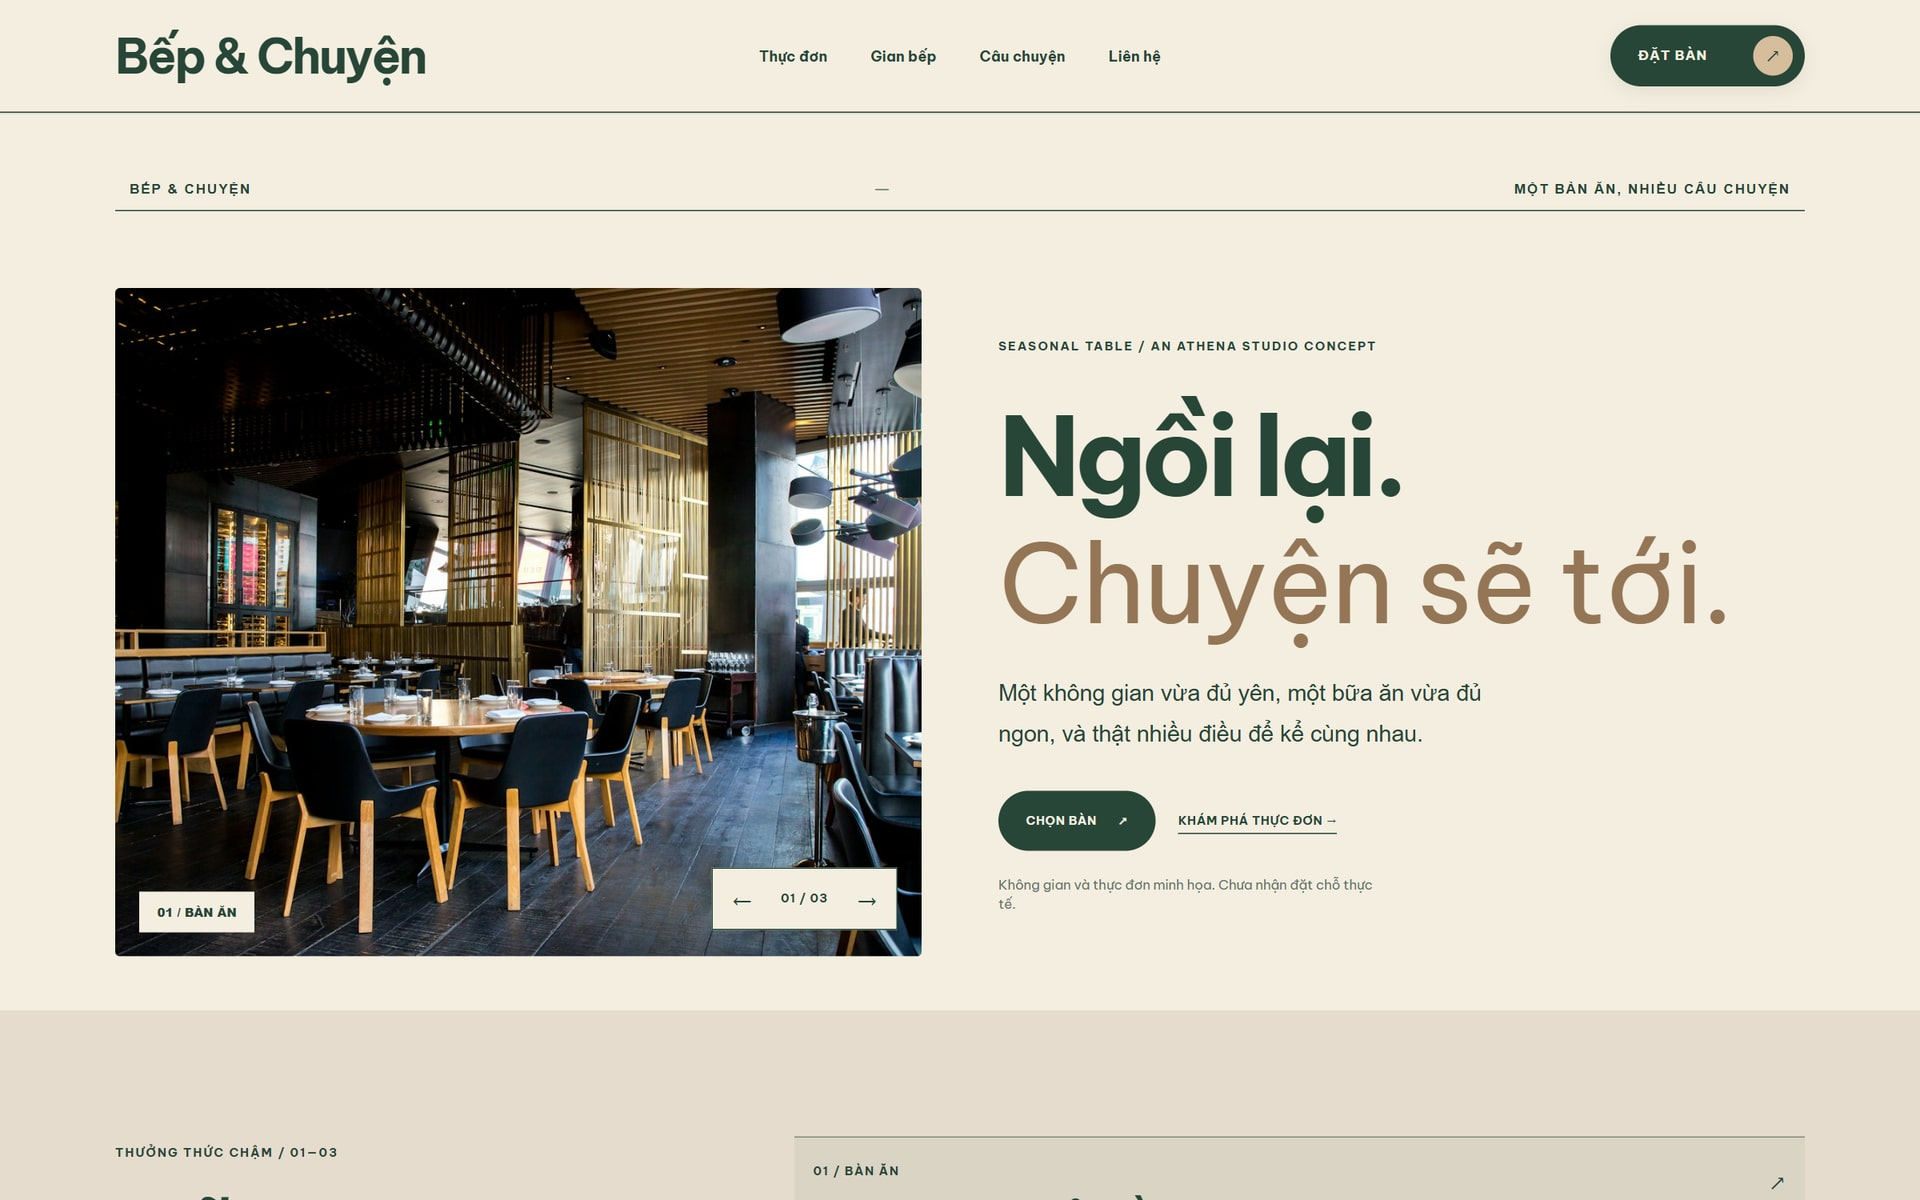
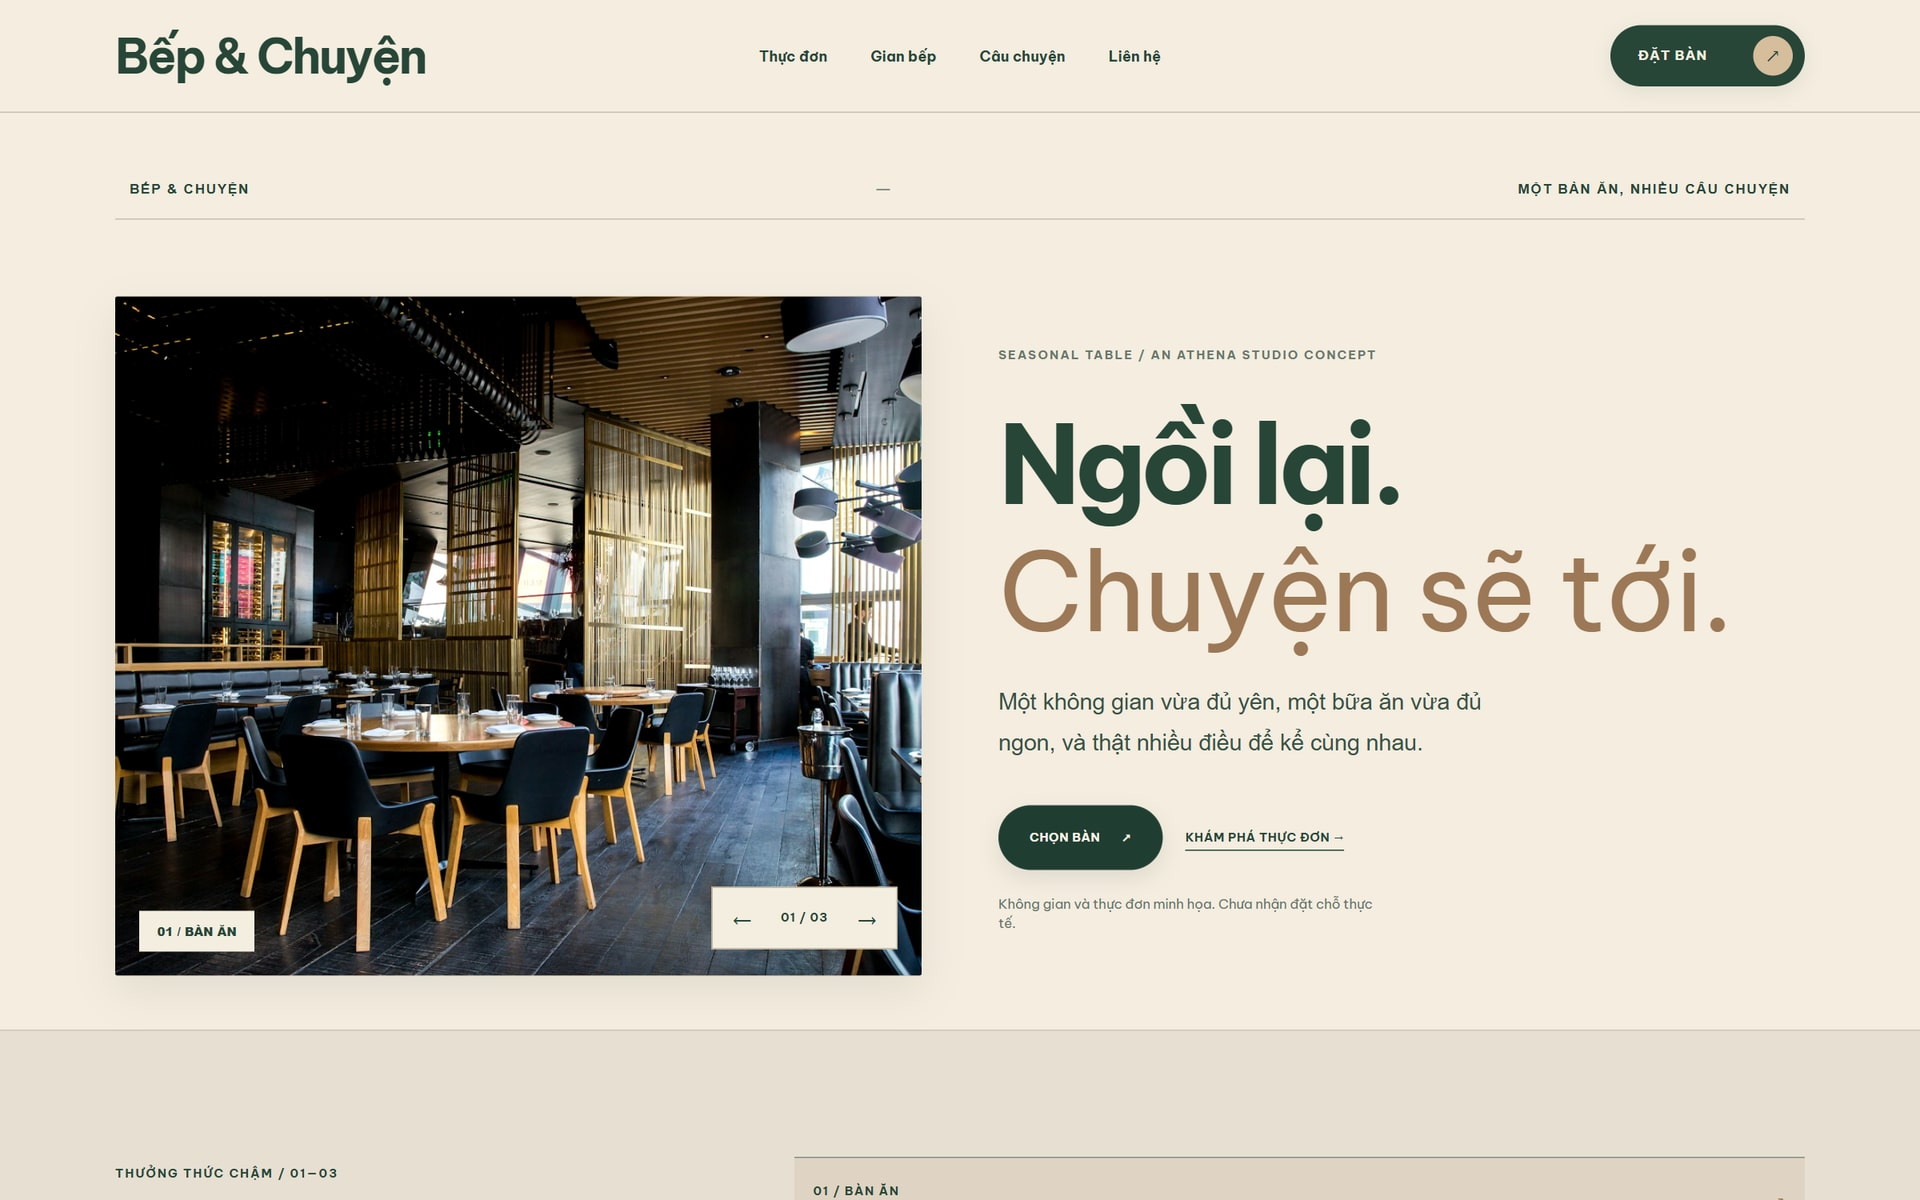
style(hospitality): elevate quiet luxury materials and editorial controls

diff --git a/templates/hospitality-booking/src/components/hospitality-sovereign.module.css b/templates/hospitality-booking/src/components/hospitality-sovereign.module.css
@@ -470,3 +470,121 @@
 .root .guestCounter legend{margin:0 0 11px;line-height:17px}
 .root .guestCounter>div{height:53px;min-height:53px;box-sizing:border-box}
 .root .guestCounter>div button{height:51px;min-height:51px;line-height:1}
+
+/* BẾP & CHUYỆN / Quiet luxury refinement — restrained material, type, and rhythm.
+   Native to this one restaurant concept; no generic template component. */
+.root{
+ --hospitality-ivory:#f4ede0;
+ --hospitality-forest:#203d31;
+ --hospitality-gold:#aa8760;
+ --hospitality-hairline:rgba(45,63,48,.25);
+ background:var(--hospitality-ivory);
+}
+.root .header{
+ background:rgba(244,237,224,.98);
+ border-bottom:1px solid var(--hospitality-hairline);
+ box-shadow:none;
+}
+.root .logo{letter-spacing:-.057em}
+.root .header nav a{font-weight:650;transition:color .2s ease,opacity .2s ease}
+.root .header nav a:hover{color:#9b7549}
+.root .actionHead{box-shadow:0 7px 19px rgba(24,51,40,.13)}
+.root .actionHead span{background:#ddc5a0}
+.root .tableInvitation{border-bottom:1px solid var(--hospitality-hairline);padding-bottom:19px;letter-spacing:.13em}
+.root .tableStage{background:var(--hospitality-ivory)}
+.root .tableStage .heroFigure{
+ overflow:hidden;border-radius:2px;
+ box-shadow:0 13px 35px rgba(33,48,35,.09);
+}
+.root .tableStage .heroFigure img{
+ filter:saturate(.91) contrast(1.035);
+ transition:filter .3s ease,transform .65s cubic-bezier(.2,.72,.2,1);
+}
+@media(hover:hover) and (pointer:fine){
+ .root .tableStage .heroFigure:hover img{filter:saturate(.99) contrast(1.04);transform:scale(1.015)}
+}
+.root .tableStage .heroWords small{letter-spacing:.14em;color:#68776b;font-weight:800}
+.root .tableStage .heroWords h1{letter-spacing:-.054em}
+.root .tableStage .heroWords h1 em{color:#9c7856}
+.root .tableStage .heroWords p{font-weight:420;color:#385246}
+.root .heroActions{margin-top:35px}
+.root .tableStage .heroWords .heroActions a:first-child{
+ min-height:54px;padding-inline:25px;border-radius:999px;
+ background:var(--hospitality-forest);color:#fbf5e9;
+ box-shadow:0 7px 18px rgba(25,49,35,.1);
+}
+.root .tableStage .heroWords .heroActions a:first-child:hover{background:#365b45}
+.root .photoControls{border-color:#c4b6a0;box-shadow:0 6px 20px rgba(18,38,30,.13)}
+.root .storyRail{background:#e7dfd2;border-top:1px solid #d0c4b2}
+.root .storyChoices button[aria-pressed="true"]{background:rgba(153,117,75,.11)}
+.root .storyChoices button strong{font-weight:620}
+.root .storyChoices button b{color:#9e7951}
+.root .featuredMenu{background:#f8f4ec}
+.root .featuredTitle{border-bottom:1px solid var(--hospitality-hairline);padding-bottom:32px}
+.root .featuredTitle h2{font-weight:600}
+.root .featuredDish img{
+ border-radius:48% 48% 2px 2px;
+ filter:saturate(.91);
+ transition:filter .35s ease;
+}
+.root .featuredDish:hover img{filter:saturate(1.02)}
+.root .featuredDish h3{font-weight:650}
+.root .featuredDish strong{color:#90704b}
+.root .homeInvitation{background:var(--hospitality-forest)}
+.root .homeInvitation img{filter:saturate(.83) contrast(1.045)}
+.root .homeInvitation a{background:#dec6a4}
+.root .menuPage{background:var(--hospitality-ivory)}
+.root .menuIntro{border-bottom:1px solid var(--hospitality-hairline);padding-bottom:35px}
+.root .menuIntro h1{font-weight:620}
+.root .menuFilters button{border-color:#b9b29f;transition:background-color .18s ease,color .18s ease}
+.root .menuFilters button[aria-pressed="true"]{background:var(--hospitality-forest)}
+.root .menuEntry{padding-top:28px;padding-bottom:28px}
+.root .menuEntry[aria-pressed="true"]{background:#e7dccc;box-shadow:inset 3px 0 0 var(--hospitality-gold)}
+.root .menuEntry:hover{background:#eee3d3}
+.root .menuEntry strong{font-weight:650}
+.root .menuPrice{color:#896844}
+.root .menuSpotlight{background:var(--hospitality-forest);padding:25px}
+.root .menuSpotlight img{filter:saturate(.91)}
+.root .bookingPage{background:var(--hospitality-ivory)}
+.root .bookingIntro{border-bottom:1px solid var(--hospitality-hairline);padding-bottom:34px}
+.root .bookingIntro h1{font-weight:630;line-height:1.15}
+.root .bookingIntro p{color:#456052}
+.root .formIntro{border-color:var(--hospitality-hairline)}
+.root .formIntro span,.root .bookingForm label,.root .bookingForm fieldset legend{letter-spacing:.13em}
+.root .bookingForm label input,.root .bookingForm label select,.root .bookingForm label textarea{
+ background:#faf7f0;border:1px solid #adbaa9;
+ transition:border-color .18s ease,box-shadow .18s ease;
+}
+.root .bookingForm label input:focus,.root .bookingForm label select:focus,.root .bookingForm label textarea:focus{
+ border-color:#8e744e;box-shadow:0 0 0 2px rgba(177,140,90,.12);
+}
+.root .guestCounter>div{background:#faf7f0;border-color:#adbaa9}
+.root .guestCounter button:hover:not(:disabled){background:#ebdfcd}
+.root .timeField button{background:#faf7f0;border-color:#b4bbaa}
+.root .timeField button[aria-pressed="true"]{background:var(--hospitality-forest);border-color:var(--hospitality-forest)}
+.root .bookingSubmit{background:var(--hospitality-forest);border-color:var(--hospitality-forest);min-height:59px;padding-inline:23px;letter-spacing:.085em}
+.root .bookingSubmit:hover{background:#355741}
+.root .bookingAside{background:var(--hospitality-forest);box-shadow:0 12px 30px rgba(24,48,36,.08)}
+.root .bookingAside img{filter:saturate(.83)}
+.root .bookingReceipt{padding:clamp(26px,3vw,44px)}
+.root .bookingReceipt dl>div{border-color:rgba(244,237,224,.23)}
+.root .bookingReceipt dt{font-size:12px;color:#e6dfcf}
+.root .bookingReceipt dd{font-weight:650}
+.root .contactPage{background:var(--hospitality-ivory)}
+.root .contactPage .contactForm{background:var(--hospitality-forest);padding:clamp(26px,3.4vw,48px)}
+.root .contactPage .contactForm input,.root .contactPage .contactForm textarea{background:#fbf7ef;border-color:#dbcdb6}
+.root .contactPage .contactForm button{background:#ddc49e;font-weight:800}
+.root .faqSection details{border-color:var(--hospitality-hairline)}
+.root .footer{background:var(--hospitality-forest)}
+.root .footerSignature{letter-spacing:-.068em;font-weight:740}
+.root .footerBooking{background:#dfc9a8}
+@media(max-width:850px){
+ .root .bookingIntro{padding-bottom:26px}
+ .root .featuredTitle{padding-bottom:25px}
+ .root .menuIntro{padding-bottom:25px}
+ .root .bookingReceipt{padding:25px}
+}
+@media(prefers-reduced-motion:reduce){
+ .root .tableStage .heroFigure img,.root .featuredDish img,.root .bookingForm label input,.root .bookingForm label select,.root .bookingForm label textarea{transition:none!important}
+ .root .tableStage .heroFigure:hover img{transform:none!important}
+}
